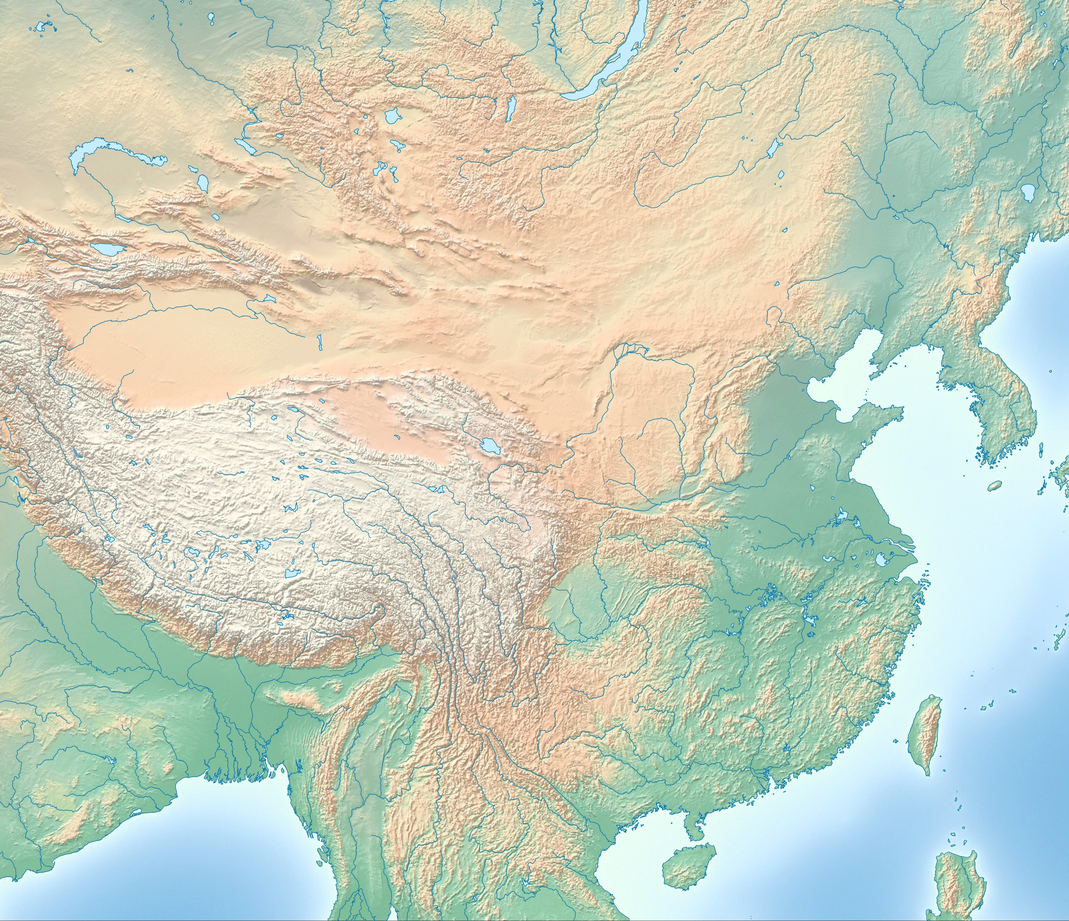
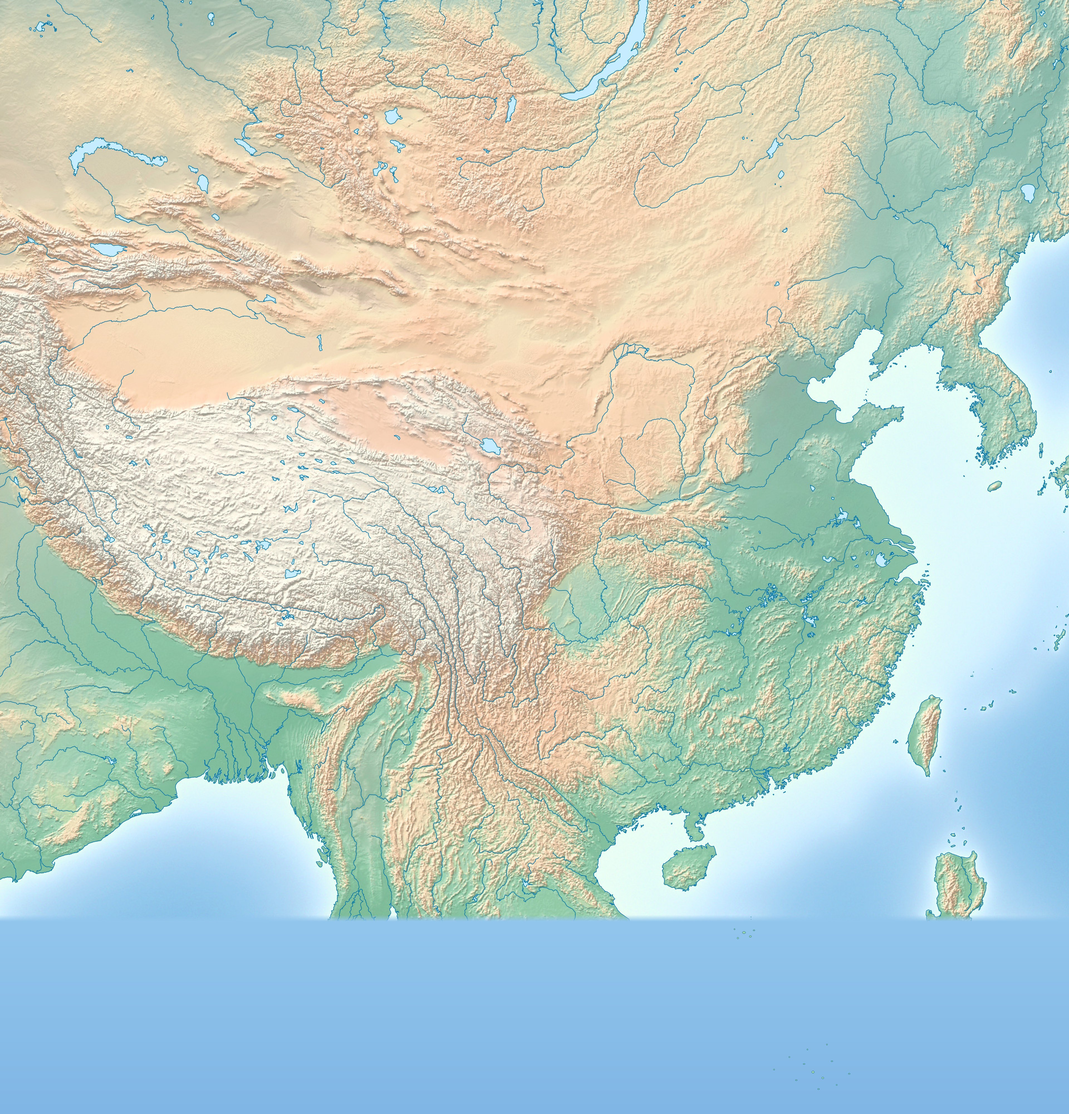
Pad the HD map south so Hainan and the Nansha area are reachable.
The Wikimedia LCC sheet ends just past Hainan; add a matching ocean
continuation to 3840×4000 with locator islets for Xisha/Nansha, and
keep river overlays aligned to the original 3840×3309 raster.

diff --git a/js/hd-overworld.js b/js/hd-overworld.js
@@ -953,9 +953,17 @@
         }
         var sctx = state._overlayScratchCtx;
         sctx.clearRect(0, 0, 1, 1);
-        var m = mapSize();
-        var sx = x / m.w * img.width;
-        var sy = y / m.h * img.height;
+        var alignW = 3840;
+        var alignH = 3309;
+        if (state.geoMeta && state.geoMeta.fit && state.geoMeta.fit.rasterSize) {
+            alignW = Number(state.geoMeta.fit.rasterSize[0]) || alignW;
+            alignH = Number(state.geoMeta.fit.rasterSize[1]) || alignH;
+        }
+        if (x < 0 || y < 0 || x > alignW || y > alignH) {
+            return false;
+        }
+        var sx = x / alignW * img.width;
+        var sy = y / alignH * img.height;
         try {
             sctx.drawImage(img, sx, sy, 1, 1, 0, 0, 1, 1);
             return sctx.getImageData(0, 0, 1, 1).data[3] > (threshold || 160);

diff --git a/pc.html b/pc.html
@@ -110,7 +110,7 @@
 <script src="js/lcd.js?ver=20260329"></script>
 <script src="js/hd-graphics.js?ver=20260918"></script>
 <script src="js/hd-overworld-probe.js?ver=20260918k"></script>
-<script src="js/hd-overworld.js?ver=20260919e"></script>
+<script src="js/hd-overworld.js?ver=20260919f"></script>
 <script src="https://img.bbkgames.com/script/js-sdk.js?ver=20260329"></script>
 <script>
     if (window.BayeHd) {

diff --git a/docs/hd-overworld-spec.md b/docs/hd-overworld-spec.md
@@ -3,7 +3,7 @@
 本文是 **大地图（overworld）** 的产品与技术规格。它不是 CSS 2× 放大说明书——那一层见 [hd-graphics.md](hd-graphics.md)。  
 规格与实现路径仍不替换 `dat.lib`、不伪造游戏截图。几何占位可继续用于未接线的层。
 
-**素材现状（分支内）：** HD 视觉地理以 Wikimedia **China LCC topographic map - Without border**（Flappiefh / Augusta 89，CC BY-SA 4.0，eqdc）为**主参考**（见 `GEOGRAPHY.md` 与 [china-lcc-city-alignment.md](china-lcc-city-alignment.md)）。可玩底图是该 SVG **全幅、无南裁** 的 3840×3309 栅格（含海南 / 南海南沙一带；源图已无标注）。1080p 画布是可拖动摄像机窗口，开局对准中东部（西凉–襄平–建业–成都），**不把全国塞进一屏**。**城标按史实经纬度投影到全图地图坐标**，绘制 / 点选用 `map - camera`。建安郡国图仅作可选史实对照。引擎 ID / `g_CityPositions` 只用于规则与入城对齐。其它层仍是 AI 占位。**不是**步步高原作美术。  
+**素材现状（分支内）：** HD 视觉地理以 Wikimedia **China LCC topographic map - Without border**（Flappiefh / Augusta 89，CC BY-SA 4.0，eqdc）为**主参考**（见 `GEOGRAPHY.md` 与 [china-lcc-city-alignment.md](china-lcc-city-alignment.md)）。可玩底图是该 SVG **全幅、无南裁** 的 3840×3309 栅格，南侧垫海到 3840×4000（含海南 / 南海南沙一带；源图已无标注）。1080p 画布是可拖动摄像机窗口，开局对准中东部（西凉–襄平–建业–成都），**不把全国塞进一屏**。**城标按史实经纬度投影到全图地图坐标**，绘制 / 点选用 `map - camera`。建安郡国图仅作可选史实对照。引擎 ID / `g_CityPositions` 只用于规则与入城对齐。其它层仍是 AI 占位。**不是**步步高原作美术。  
 **分支策略：本轨道只停在 `feature/hd-graphics`，在用户明确要求之前不要合入 `main`。**
 
 状态：产品方向已锁定；史实向地形已进本分支。**P0–P3 已在本分支落地（P2 partial）**：P1 城态/点选仍在；P2 在地形与城标之间画路网。邻接来自 `g_CityPositions` 的格邻接（Chebyshev≤1），不是引擎出征表。关隘只标在路中点压到河叠加处。缺口见 §8–§9 与 FEATURES.md。
@@ -335,7 +335,7 @@ P3 诚实缺口：
 
 | 资产 | 路径 | 尺寸 | 说明 |
 |------|------|------|------|
-| 平原底 | `terrain/base_plains.jpg` | 3840×3309（全 SVG） | 最底层；视口是 1920×1080 摄像机，可拖动 |
+| 平原底 | `terrain/base_plains.jpg` | 3840×4000（全 SVG + 南海垫） | 最底层；视口是 1920×1080 摄像机，可拖动 |
 | 山 | `terrain/overlay_mountains.png` | 与底图同范围或占位 | 透明叠加；当前关隘检测用，可不绘制 |
 | 河 / 湖 | `terrain/overlay_rivers.png` | 与底图同范围 | 透明叠加；当前关隘检测用，河已在底图上 |
 | 林 | `terrain/overlay_forest.png` | 与底图同范围或占位 | 透明叠加 |

diff --git a/FEATURES.md b/FEATURES.md
@@ -101,7 +101,7 @@
 |------|------|------|
 | `classic` / `hd-map` 切换 | done | `localStorage['baye/overworldMode']`，默认 `classic`。首页下拉 + `pc.html` 画质条「经典地图 / HD 地图」 |
 | 1080p 容器 `#hd-overworld` | done | Canvas 2D，设计 1920×1080，窗口内 `contain`；DPR≤2 提高清 backing store |
-| 地形合成 | done | Wikimedia China LCC 全图（无国界，CC BY-SA 4.0）3840×3309，含海南/南海。1080p 摄像机可拖动，开局对准中东部。城标 `china-lcc-cities.json` |
+| 地形合成 | done | Wikimedia China LCC 全图（无国界，CC BY-SA 4.0）+ 南海垫高 3840×4000，含海南/南沙。1080p 摄像机可拖动，开局对准中东部。城标 `china-lcc-cities.json` |
 | 城标四态 / 势力色 | done | empty / owned / neutral / selected 用 `cities/marker_*.png`；空城 Belong 0；己方 `Belong === g_PlayerKing+1`；他方按 `palette/factions.json` 色环 |
 | 城名标签 | done | `baye.getCityName(i)`，20px 暗底+描边，重叠时下移避让 |
 | 点击入城 | partial | 当前城读 `g_CityPos.setx/sety`。词典原版马腾已核验：西凉→安定、安定→天水均打开对应四项菜单（`tile-walk` RD）。写字段会进错城，已不用。无 `g_CityPos` 的 lib 回退邻接 BFS，未测 |

diff --git a/assets/hd-overworld/GEOGRAPHY.md b/assets/hd-overworld/GEOGRAPHY.md
@@ -6,7 +6,9 @@ HD **视觉**地理以 Wikimedia
 投影：`+proj=eqdc +lat_1=22 +lat_2=50 +lon_0=105 +ellps=WGS84`。
 
 **全图范围**含海南岛与南海（南沙一带），**不做 16:9 南裁**。
-可玩纹理是全 SVG 的 3840×3309 栅格；1080p 画布只是**摄像机窗口**。
+可玩纹理是全 SVG 的 3840×3309 栅格，南侧再垫一层同色海面到 3840×4000
+（Wikimedia 图幅南缘在海南以南不远；南沙礁盘在该比例下为亚像素，用定位点标出）。
+1080p 画布只是**摄像机窗口**。
 开局对准西凉–襄平–建业–成都一带，不把全国塞进一屏。拖动平移，边界夹紧。
 
 建安郡国图只作**可选史实对照**。见
@@ -18,7 +20,7 @@ HD **视觉**地理以 Wikimedia
 
 | 要素 | 布局 |
 |------|------|
-| 底图 | 中国 LCC 全图（含海南 / 南海），3840×3309，无竖裁 |
+| 底图 | 中国 LCC 全图（含海南）+ 南海垫高，3840×4000，无竖裁 |
 | 视口 | 1920×1080 摄像机；`offsetX/offsetY` + scale，可拖动 |
 | 开局焦点 | 西凉–襄平–建业–成都（中东部三国核心） |
 | 黄河 / 长江 / 湖泊 / 海 | 源图水体（无国界、无文字） |

diff --git a/assets/hd-overworld/README.md b/assets/hd-overworld/README.md
@@ -1,7 +1,7 @@
 # HD Overworld 素材包
 
 - 用途：`feature/hd-graphics` 大地图表现层，**默认不合入 main**。
-- **地形**（`terrain/base_plains.jpg`）：Wikimedia China LCC topographic 全图（无国界，CC BY-SA 4.0，见 `reference/LICENSE.txt`）。3840×3309，含海南 / 南海。视口 1920×1080 可拖动。
+- **地形**（`terrain/base_plains.jpg`）：Wikimedia China LCC topographic 全图（无国界，CC BY-SA 4.0，见 `reference/LICENSE.txt`）。全 SVG 3840×3309，南垫到 3840×4000，含海南 / 南沙一带。视口 1920×1080 可拖动。
 - **城标位置**：`china-lcc-cities.json` 地图坐标，绘制时减摄像机偏移。
 - 城标 / 路笔刷等其它层仍是 AI 占位，不是步步高原作美术。
 - 清单对齐 `docs/hd-overworld-spec.md` §10。

diff --git a/docs/china-lcc-city-alignment.md b/docs/china-lcc-city-alignment.md
@@ -12,14 +12,15 @@ HD 大地图的**视觉地理**以 Wikimedia Commons
 ## 授权
 
 可玩底图：`assets/hd-overworld/terrain/base_plains.jpg`（与
-`reference/base_china_lcc_full.jpg` 同像素），**全 SVG 无竖裁** 3840×3309。
+`reference/base_china_lcc_full.jpg` 同像素），**全 SVG 无竖裁** 3840×3309，
+南侧海面垫到 3840×4000 以便拖到海南 / 南沙。
 许可原文：`assets/hd-overworld/reference/LICENSE.txt`。
 
 ## 投影与摄像机
 
 - PROJ：`+proj=eqdc +lat_1=22 +lat_2=50 +lon_0=105 +ellps=WGS84`
 - 源 SVG viewBox：`0 0 1920 1654`，**不裁海南 / 南海**
-- 出荷地图：3840×3309（2× viewBox）
+- 出荷地图：3840×3309（2× viewBox），再垫海到 3840×4000
 - SVG 仿射后再按比例落到出荷栅格：
 
 ```
